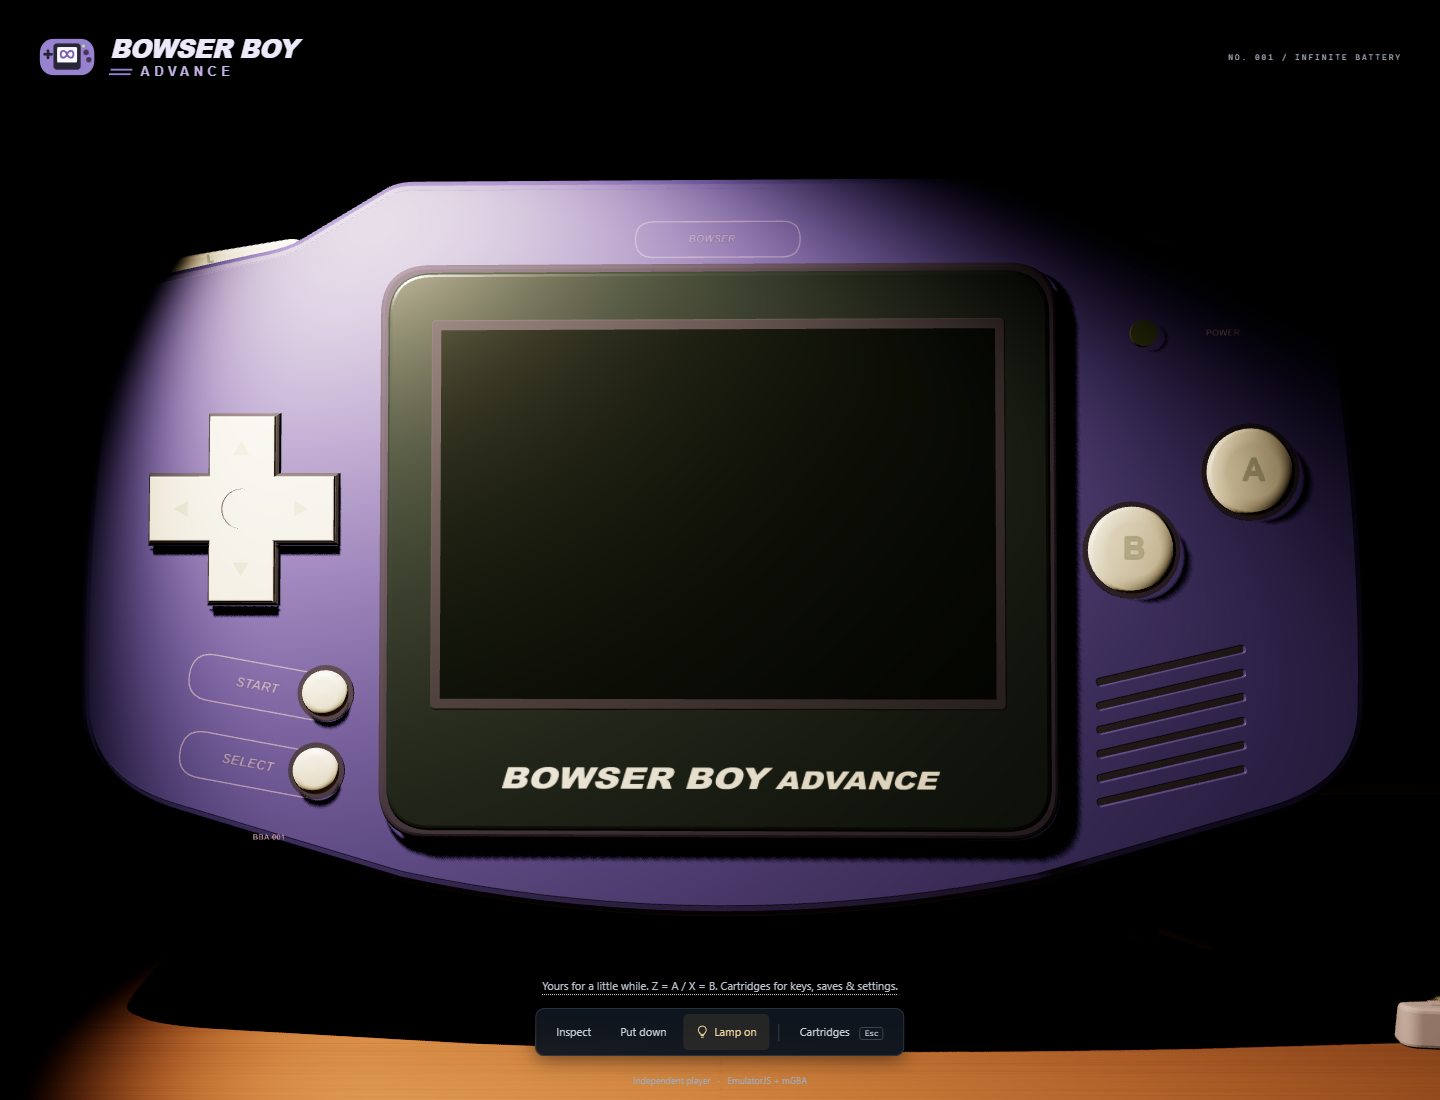
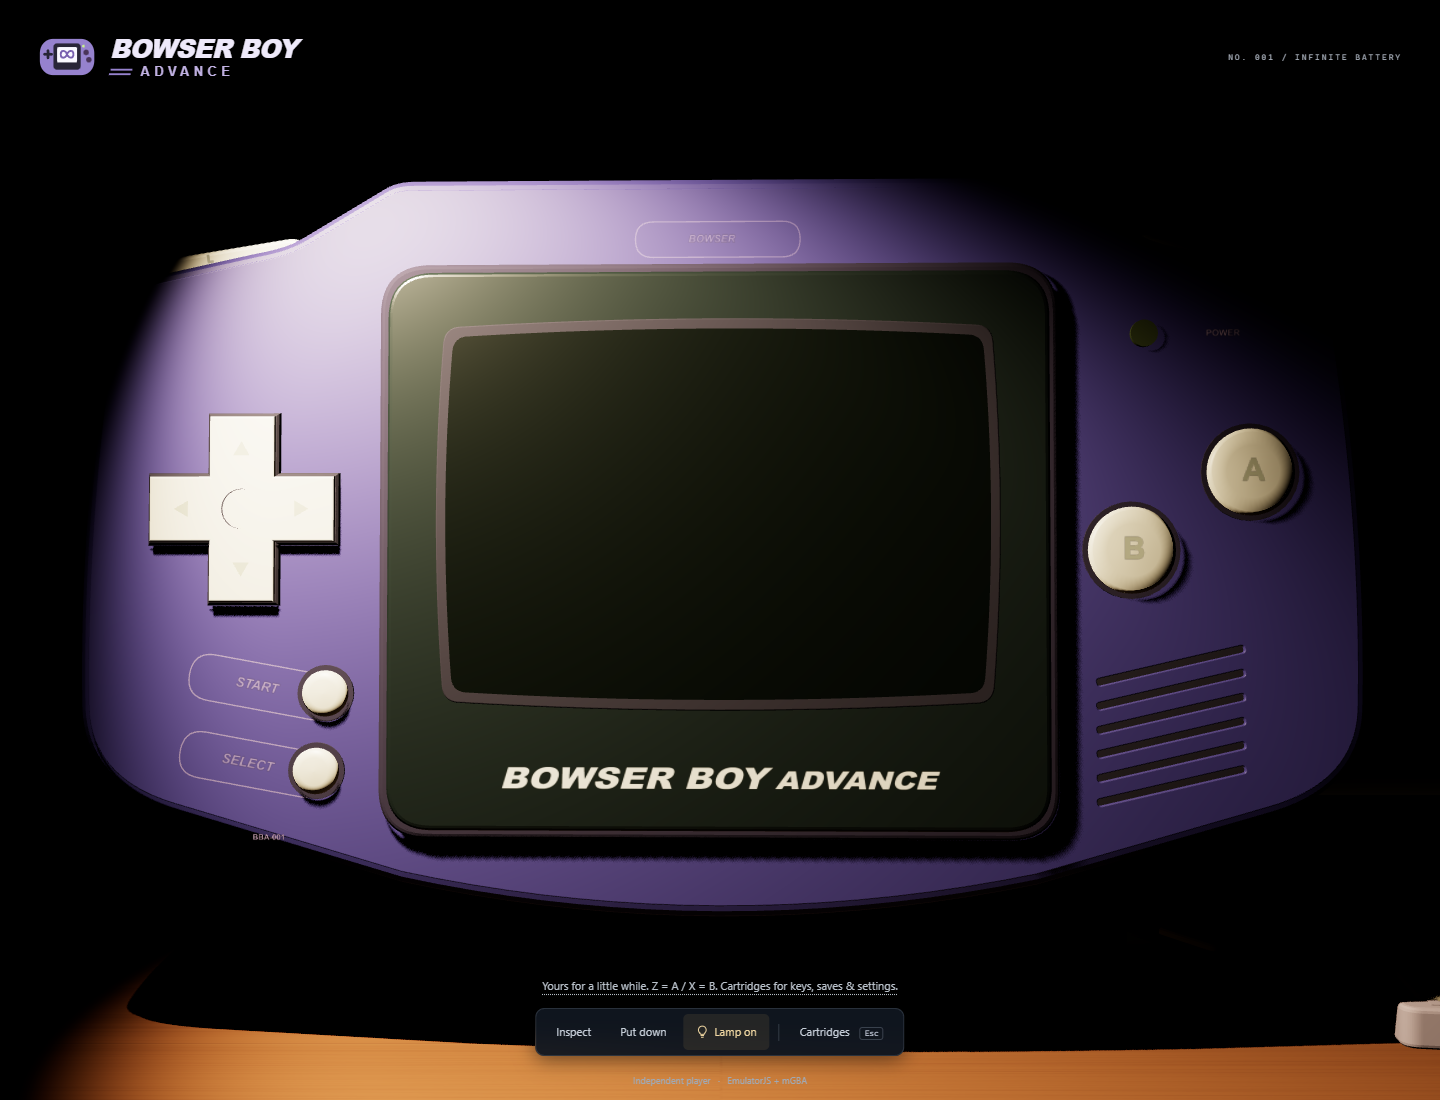
docs: record deployed curved LCD border and refreshed views
Copilot-Session: 8e7d69ac-78f7-4310-8b8d-14bf8681a509

diff --git a/docs/VERIFICATION.md b/docs/VERIFICATION.md
@@ -246,6 +246,26 @@ latency alone did not create real headroom, setting a future source start before
 the native time update caused invalid offsets, -1 dB compression still overshot,
 and naive overlapping gain updates produced discontinuities.
 
+## Curved LCD border follow-up, 2026-11-04
+
+The original-demo fixture samples actual native CRT image edges and raycasts
+the 3D display. Sampled visible edge pixels remain inside the curved mesh, with
+less than nine native pixels of shortest-distance clearance. Interpolated UVs
+retain the original framebuffer coordinates. A corner ray verifies the raised
+border also curves; disabling CRT restores the rectangular surround and complete
+unfiltered corner. Switching back restores the curve without another runtime.
+This fit targets the pinned CRT Geom defaults, not arbitrary shader parameters.
+
+Syntax/build passed. Four affected Edge settings/startup/3D/CRT cases passed
+in 47.9s; the explicit software-graphics CRT case passed in 30.3s.
+Source `72da407f03ddf872bdd7b3c19e4a9bba92445998` passed build, both complete
+browser shards (25 cases) and actual deployment in Pages run `41763054197`.
+Fresh live verification matched all 23 exact public assets and passed the
+native edge/UV/filter-switching case in 14.1s. Original-demo output and updated
+table/play/startup captures were visually inspected. Public documentation
+follows deployment; no commercial-ROM retest or new user approval is claimed.
+See `TODO/13_CURVED_LCD_BORDER.todo`.
+
 ## Not verified here
 
 This revamp's suite uses the original demo, not commercial ROM data. Physical

diff --git a/docs/ARCHITECTURE.md b/docs/ARCHITECTURE.md
@@ -168,6 +168,16 @@ The screen's `CanvasTexture` uploads the retained, post-shader framebuffer
 each render frame, so curvature/scanlines follow the LCD around the 3D model
 and are naturally occluded when its back faces the camera.
 
+The inner LCD/recess outlines use original quadratic curves fitted around the
+pinned CRT Geom image boundary. Both are actual mesh geometry; the outer charcoal
+bezel stays unchanged. `createLcdGeometries` keeps the original rectangular
+framebuffer UV coordinates, so the border does not warp the already-filtered
+image again. `setScreenCurve` disposes/replaces geometry only when the effective
+shader changes, retaining the mesh, material, texture and native runtime.
+Unfiltered and other native presets restore the rectangular display/surround
+rather than cropping their corners or assuming CRT Geom's fit applies to them.
+Revalidate the outline against actual native output on an engine/shader upgrade.
+
 ### Dark room and screen-colored illumination
 
 `src/lighting.js` models the lamp and its light sources. The scene has no ambient,

diff --git a/README.md b/README.md
@@ -77,7 +77,9 @@ the handheld to the table. Reduced-motion mode skips the pickup animation.
 ![The raised handheld in play view](docs/images/3d-handheld.png)
 
 *The LCD and bezel lettering are surfaces on the mesh, not a floating iframe
-or a flat photograph. Controls sit on the physical shell.*
+or a flat photograph. The inner screen border follows CRT Geom's bowed sides
+and corners; unfiltered mode restores a complete rectangular screen.
+Controls sit on the physical shell.*
 
 The revised shell uses stepped shoulders, straighter sides, a bowed lower edge,
 low-profile buttons and recessed speaker slots. Its shape was informed by the
